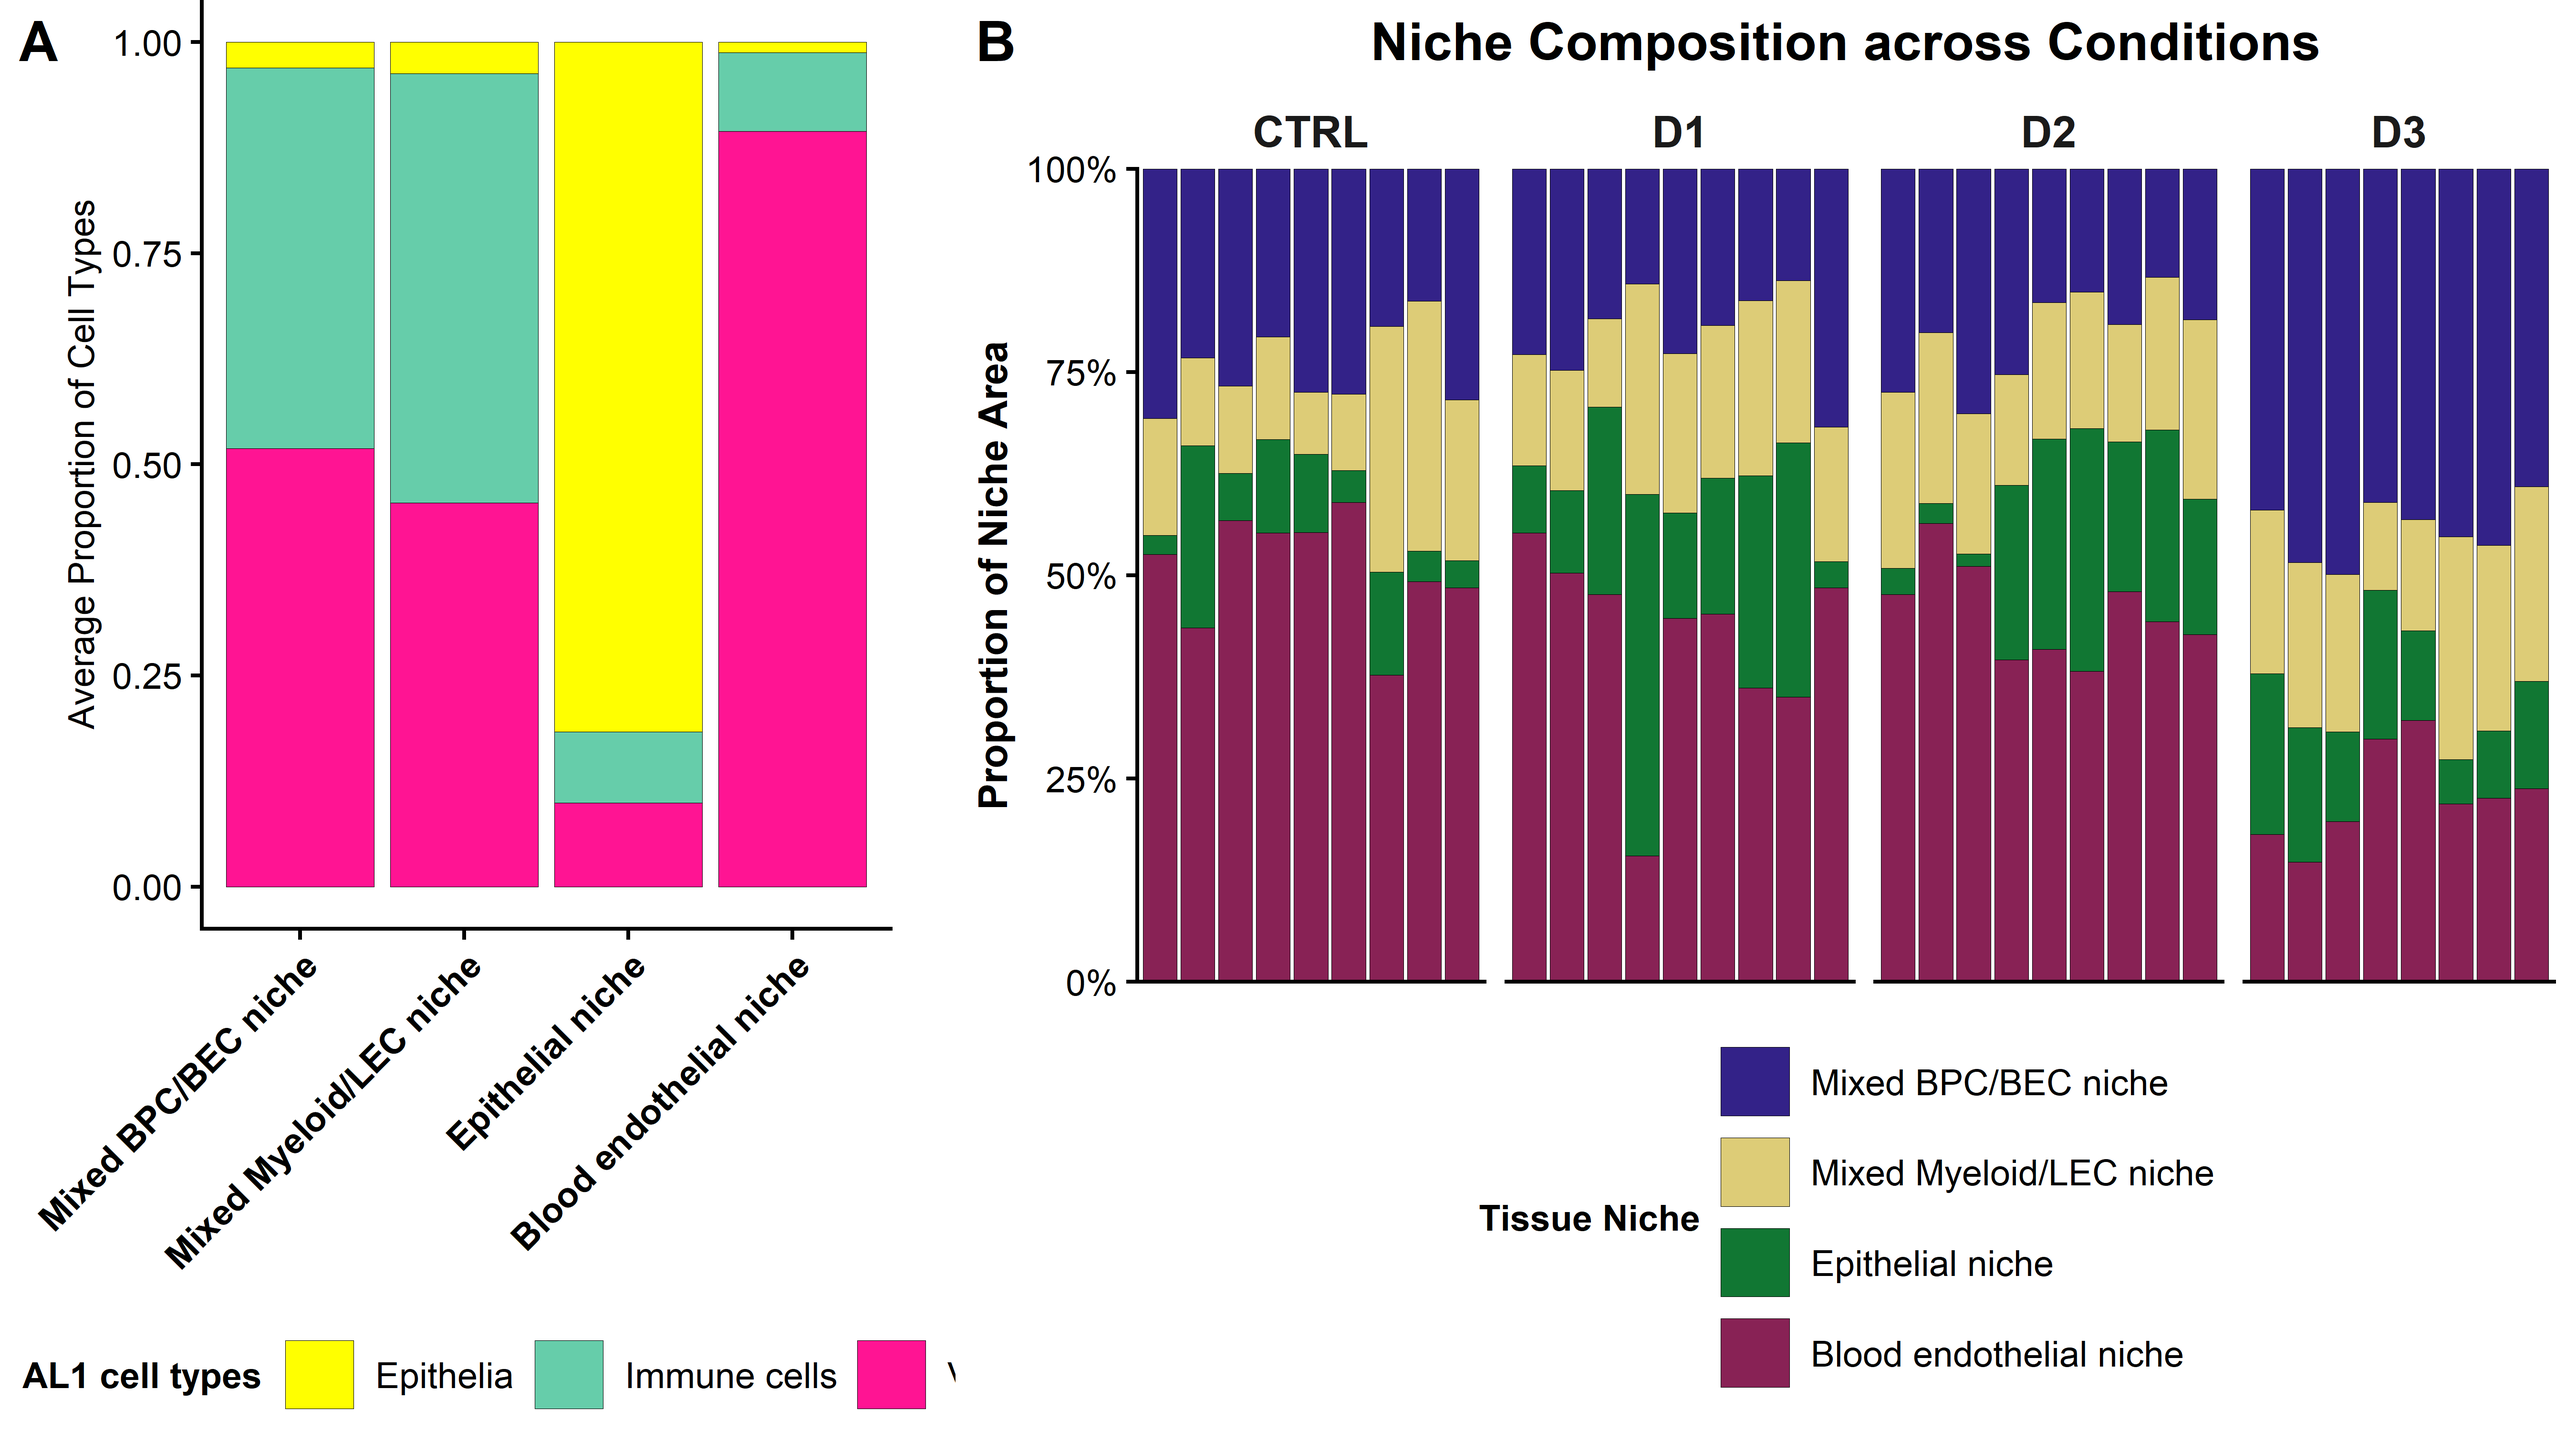
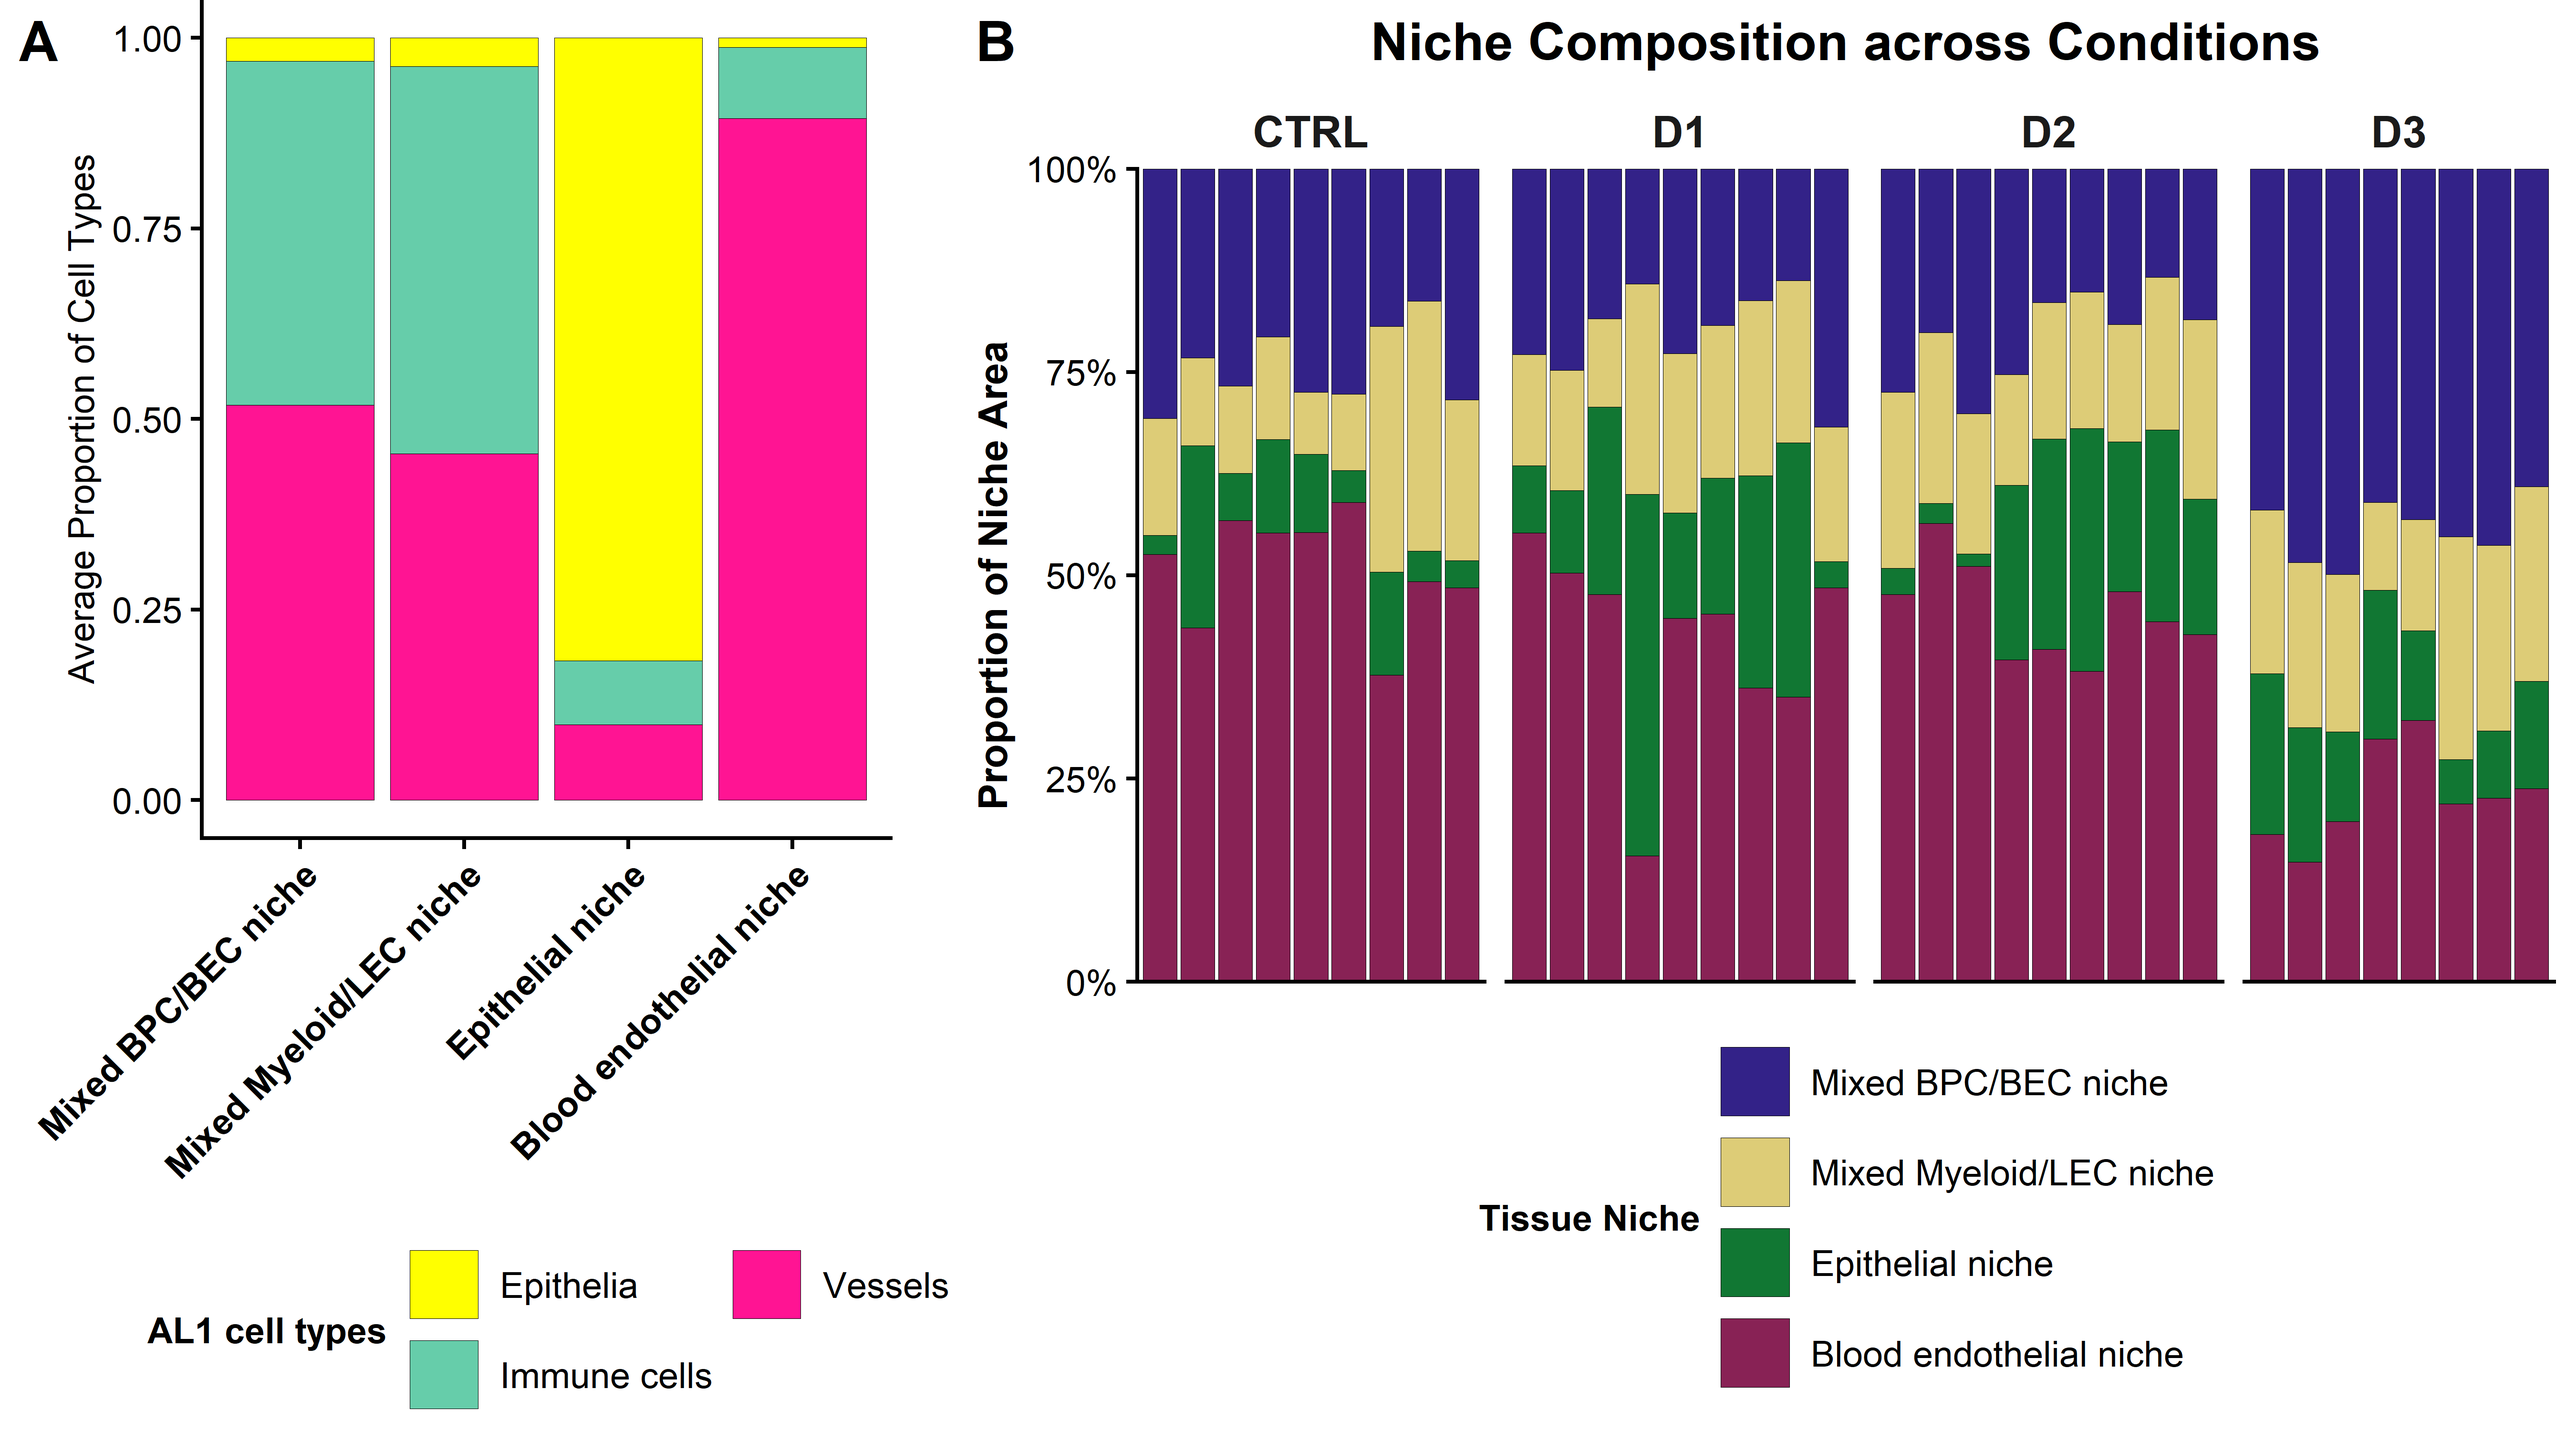
Adapted aestetics

diff --git a/2_visualizations_for_figures/Fig_6_Niche_analysis_lung.md b/2_visualizations_for_figures/Fig_6_Niche_analysis_lung.md
@@ -1,7 +1,7 @@
 ---
 title: "Figure 6: Niche analysis mouse lung"
 author: "Sandy Kroh"
-date: "April 22, 2026"
+date: "April 23, 2026"
 output:
   html_document:
     toc: yes
@@ -410,7 +410,8 @@ plot_comp_al1 <- ggplot(niche_composition, aes(x = Tissue_Niche, y = Fraction, f
     legend.text = element_text(size = 9),
     legend.position = "bottom", 
     plot.title = element_blank(), 
-    plot.margin = margin(0, 0, 0, 0.6, "cm"))
+    plot.margin = margin(0, 0, 0, 0.6, "cm"))+
+  guides(fill = guide_legend(ncol = 2))
 
 print(plot_comp_al1)
 ```
